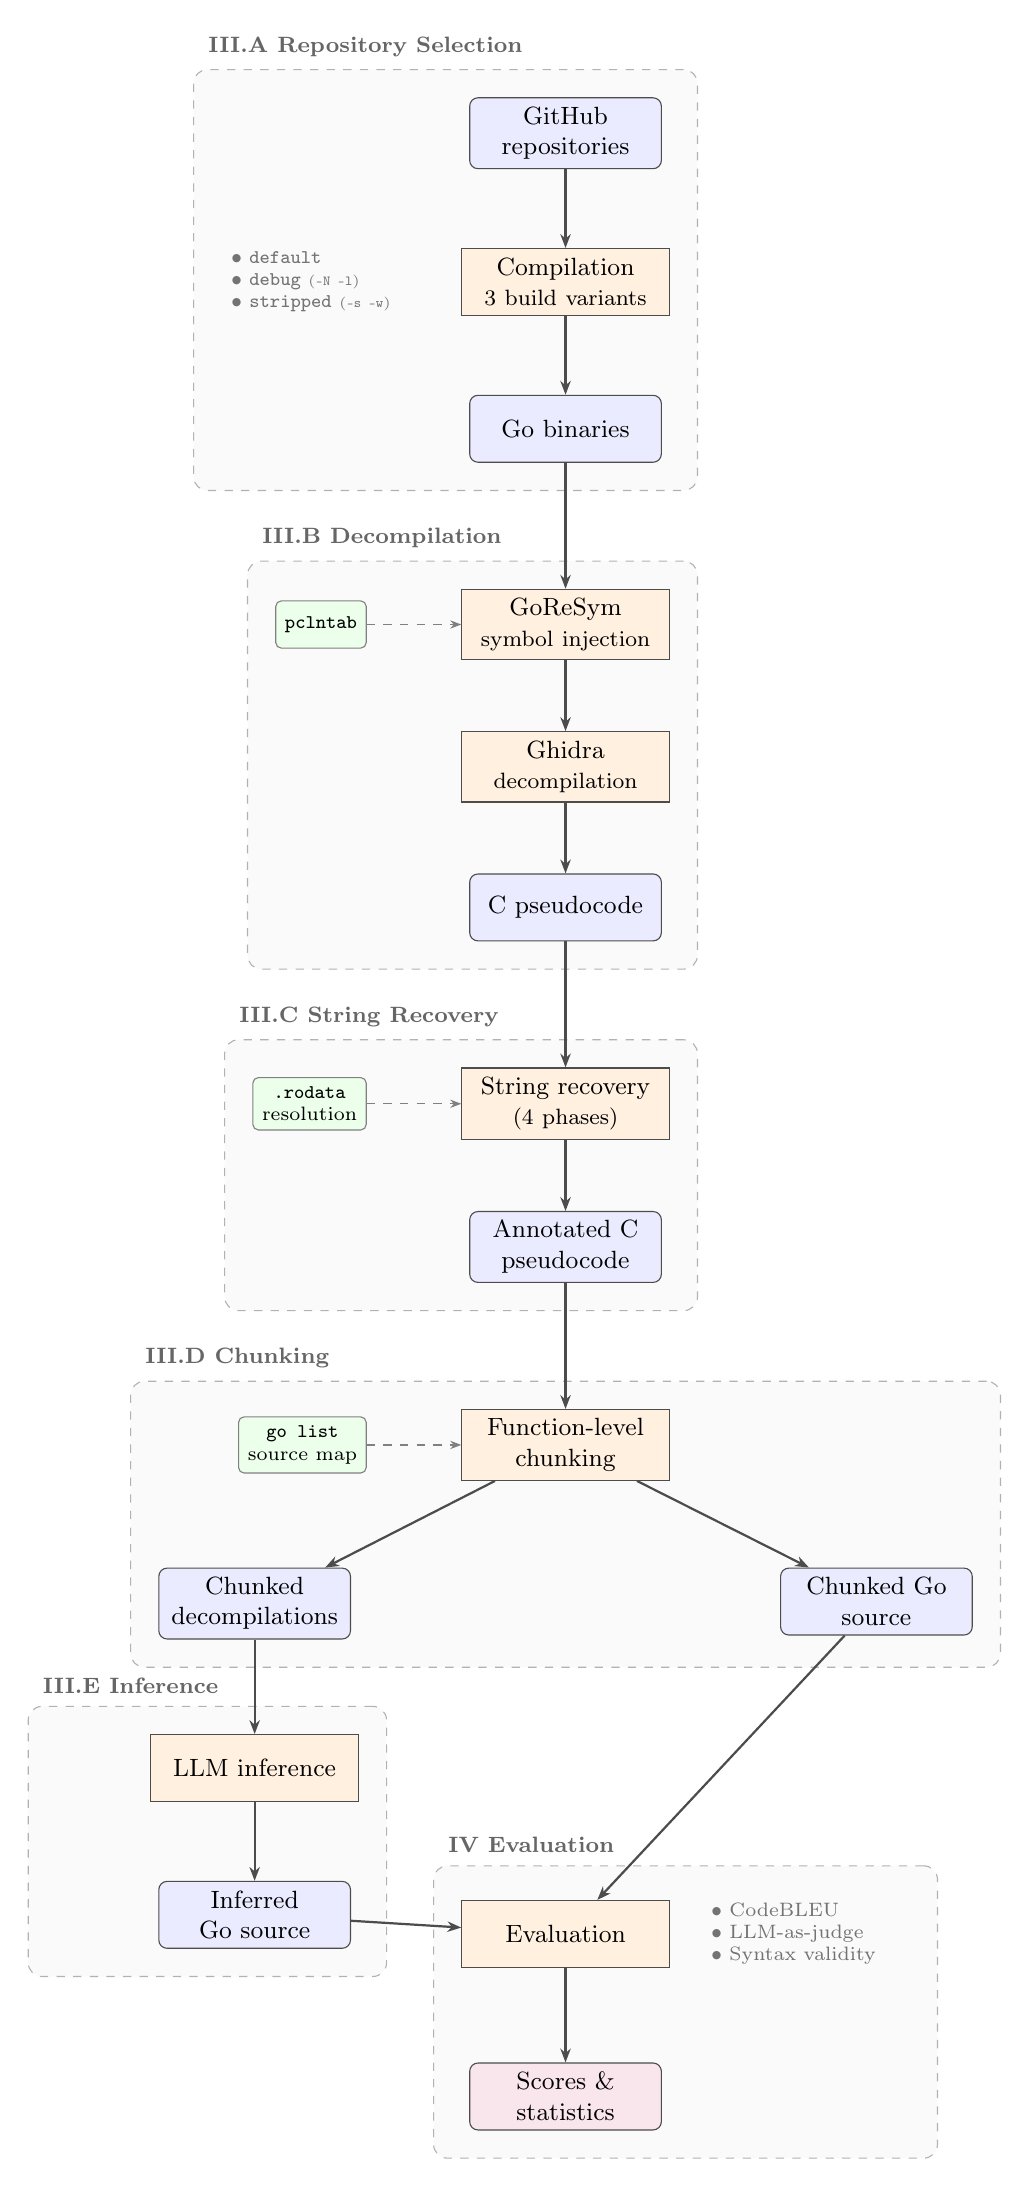
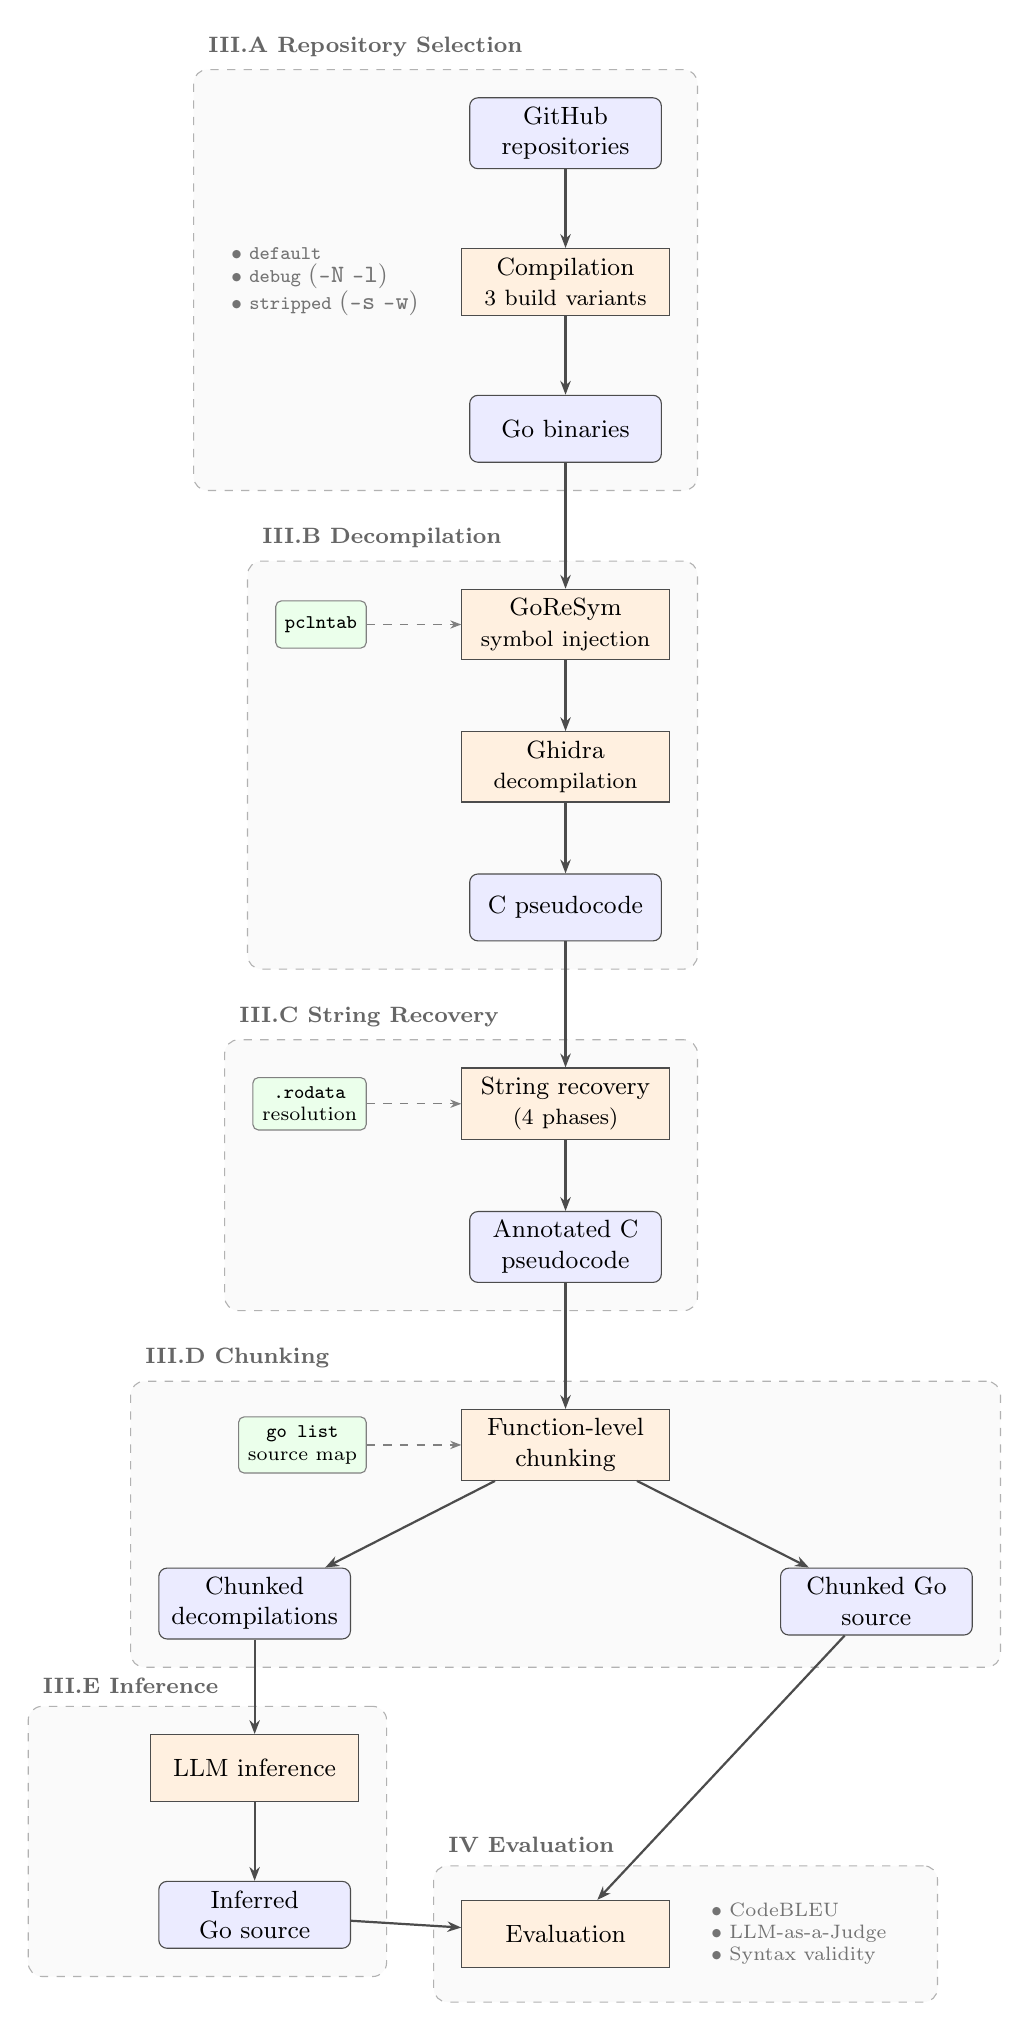
diagram changes

diff --git a/paper/pipeline_diagram.tex b/paper/pipeline_diagram.tex
@@ -56,8 +56,8 @@
 
 \node[annot, left=0.4cm of compile] (variants) {
     \textbullet~\texttt{default}\\
-    \textbullet~\texttt{debug} {\tiny(\texttt{-N -l})}\\
-    \textbullet~\texttt{stripped} {\tiny(\texttt{-s -w})}
+    \textbullet~\texttt{debug} {\small(\texttt{-N -l})}\\
+    \textbullet~\texttt{stripped} {\small(\texttt{-s -w})}
 };
 
 % -- Section 3.2: Decompilation --
@@ -96,11 +96,9 @@
 \coordinate (eval_center) at ($(inferred.south)!0.5!(chunked_src.south) + (0,-1.8)$);
 \node[process] at (eval_center) (eval) {Evaluation};
 
-\node[output, below=1.2cm of eval] (scores) {Scores \&\\statistics};
-
 \node[annot, right=0.4cm of eval] (metrics) {
     \textbullet~CodeBLEU\\
-    \textbullet~LLM-as-judge\\
+    \textbullet~LLM-as-a-Judge\\
     \textbullet~Syntax validity
 };
 
@@ -145,8 +143,6 @@
 \draw[arrow] (inferred) -- (eval);
 \draw[arrow] (chunked_src) -- (eval);
 
-% Evaluation output
-\draw[arrow] (eval) -- (scores);
 
 % ============================================================
 % Phase bounding boxes
@@ -158,7 +154,7 @@
     \node[phase, fit=(strings)(pseudocode)(rodata)] (p3) {};
     \node[phase, fit=(chunk)(chunked_decomp)(chunked_src)(golist)] (p4) {};
     \node[phase, fit=(inference)(inferred)(p5pad)] (p5) {};
-    \node[phase, fit=(eval)(scores)(metrics)] (p6) {};
+    \node[phase, fit=(eval)(metrics)] (p6) {};
 \end{scope}
 
 % Phase labels — just above each box, left-aligned